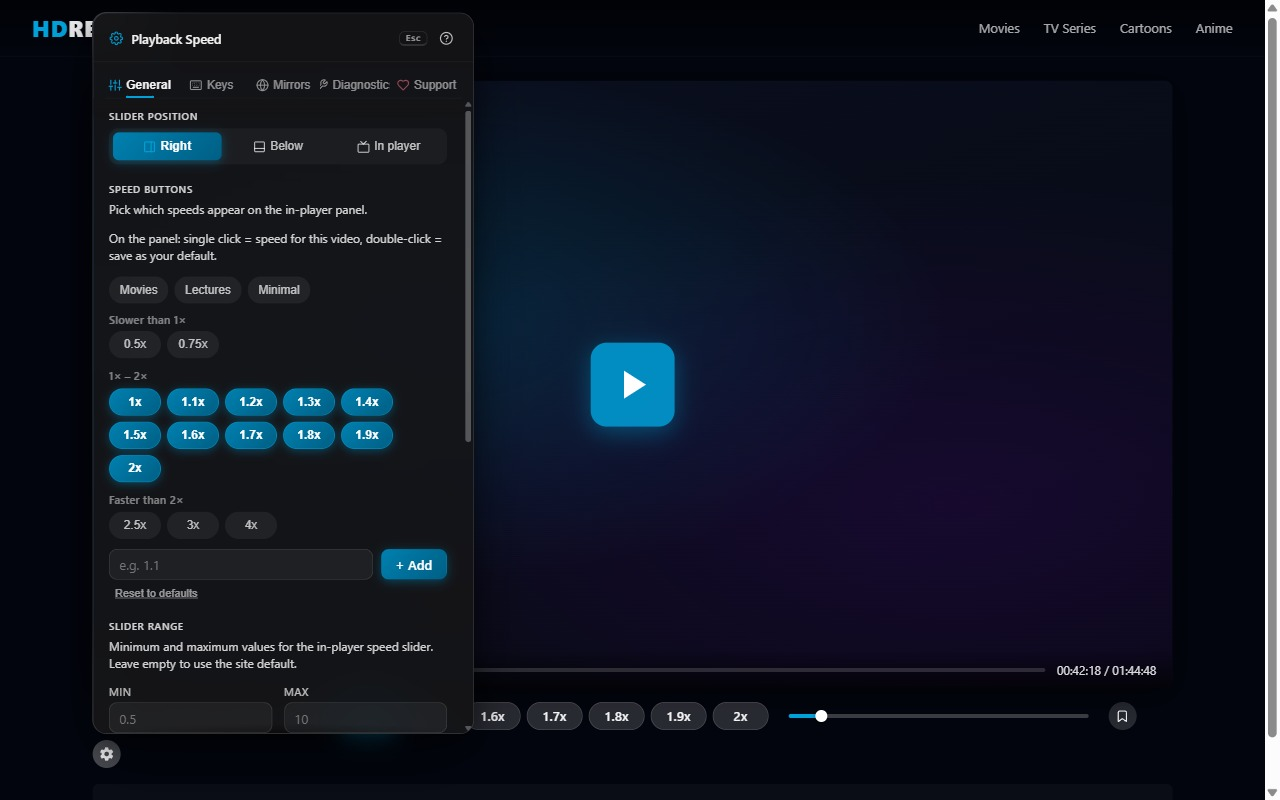
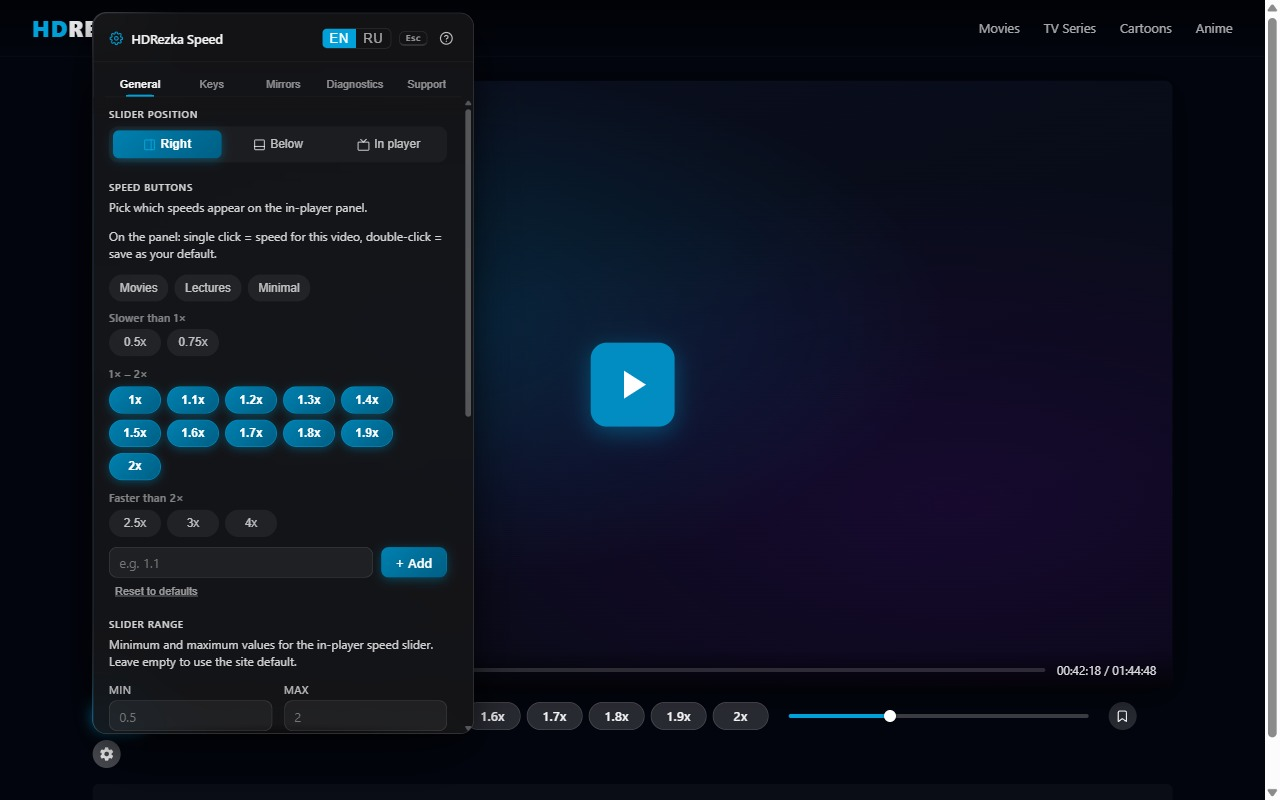
feat(onboarding): stop surprising the first-time user
The first film a new profile ever opened played at 1.4x — inherited from
the legacy userscript, never chosen. Speech gabbles, music is pitched up,
and nothing on screen says why; the obvious reading is "this extension
broke the player". A fresh profile now starts at normal speed and 1.4x is
one click away on the panel. Stored speeds are untouched, so nobody who
already picked a speed notices anything.

Nothing on the video page ever taught the two non-obvious things (click vs
double-click, and that the gear holds the hotkeys) — all of that lived on
the welcome tab, which many people close unread, after which only a hover
tooltip remained. The panel now says it once per profile, in a dismissible
chip built on the machinery the failure paths already use.

The welcome page's "Open HDRezka" button was a bare link to one mirror.
HDRezka mirrors get ISP-blocked routinely — that is why the reachability
machinery exists, and the popup has always used it — so the first click
after install was a dead end for exactly the people that machinery was
built for. It now asks the worker for a live mirror, with the plain link
as the fallback.

Also on that page: the button that starts the product was the last thing
on it, after a donation ask; the "pin the icon" tip — the one instruction
that decides whether settings can be found tomorrow — was the faintest
text on the page; the inert panel replica showed a pointer cursor next to
[…]

diff --git a/src/entrypoints/welcome/main.ts b/src/entrypoints/welcome/main.ts
@@ -19,7 +19,7 @@ import { storageKeysFor } from '../../config';
 import { detectBrowserLang } from '../../i18n/detect';
 import { type Lang, SUPPORTED_LANGS } from '../../i18n/dict';
 import { createTranslator } from '../../i18n/translator';
-import { builtinMatchPatterns } from '../../sites/mirror-hosts';
+import { BUILTIN_MIRROR_HOSTS, builtinMatchPatterns } from '../../sites/mirror-hosts';
 import { captureHotkey, formatHotkey } from '../../speed/hotkeys';
 import { createBrowserStorageAdapter } from '../../storage/adapter';
 import { defaultSettings, type Settings } from '../../storage/types';
@@ -103,6 +103,10 @@ async function renderWelcome(host: HTMLElement, langOverride?: Lang): Promise<vo
     renderLangSwitch(t, lang, onLangChange),
     renderHero(t),
     renderPermissionGate(t),
+    // The button that actually starts the product, right where the user is
+    // looking — the full row at the bottom stays, but reaching it meant
+    // scrolling past two teaching blocks, a hotkey editor and a donation ask.
+    renderCta(t),
     renderBlockA(t),
     renderHotkeys(t, liveSettings, applyPatch),
     renderBlockB(t),
@@ -346,12 +350,11 @@ function annotation(positionClass: string, text: string): HTMLElement {
     {
       class: `annotation ${positionClass}`,
       'data-ann-group': group,
-      // Make annotations focusable — keyboard/AT users tab through them
-      // and the focus handler in wireHoverGroups() lights up the matching
-      // UI part. role=button + aria-label tell SR users this thing has
-      // an effect when activated.
+      // Focusable so keyboard/AT users can tab through them — the focus
+      // handler in wireHoverGroups() lights up the matching UI part.
+      // Deliberately NOT role=button: nothing happens on Enter/Space, and
+      // announcing "button" promised an activation that does not exist.
       tabindex: 0,
-      role: 'button',
     },
     h('div', { class: 'ann-label' }, ...richText(text)),
   );
@@ -749,12 +752,14 @@ function renderTips(t: T): HTMLElement {
   const tipRow = (icon: SVGElement, text: string): HTMLElement =>
     h('div', { class: 'tip-row' }, icon, h('span', {}, ...richText(text)));
 
-  return h(
-    'div',
-    { class: 'tips-block' },
-    tipRow(reopenIcon, t('welcome.tips.reopen')),
-    tipRow(pinSvg, t('welcome.pin.tip')),
-  );
+  // Pinning gets its own callout rather than a dimmed 13px line among the
+  // other tips: it is the single action that decides whether the person can
+  // find the settings again tomorrow, and it used to carry the least visual
+  // weight on a page that gives a pulsing heart to the donation block.
+  const pinRow = tipRow(pinSvg, t('welcome.pin.tip'));
+  pinRow.classList.add('tip-row-callout');
+
+  return h('div', { class: 'tips-block' }, pinRow, tipRow(reopenIcon, t('welcome.tips.reopen')));
 }
 
 /* ─── Donate ───────────────────────────────────────────────────────── */
@@ -859,16 +864,36 @@ function renderPermissionGate(t: T): HTMLElement {
 }
 
 function renderCta(t: T): HTMLElement {
+  // Not a bare href to one mirror. HDRezka domains get ISP-blocked routinely —
+  // that is the whole reason the mirror machinery exists — so a hardcoded
+  // link made the FIRST click after install a dead end for exactly the people
+  // the machinery was built for. The worker already knows how to find a
+  // reachable mirror; the popup has always used it (mirrors:open-reachable).
+  // The href stays as the no-JS fallback and as something to middle-click.
   const hdrBtn = h(
     'a',
     {
       class: 'welcome-cta cta-hdr',
-      href: 'https://rezka.ag/',
+      href: `https://${BUILTIN_MIRROR_HOSTS[0]}/`,
       target: '_blank',
       rel: 'noopener noreferrer',
     },
     t('welcome.cta.hdrezka'),
   );
+  hdrBtn.addEventListener('click', (event) => {
+    event.preventDefault();
+    void browser.runtime
+      .sendMessage({ type: 'mirrors:open-reachable', candidates: [...BUILTIN_MIRROR_HOSTS] })
+      .then((res) => {
+        // Worker could not reach any mirror (all blocked, or it is asleep in a
+        // userscript-style build): fall back to the plain link rather than
+        // leaving the click doing nothing at all.
+        if (!(res as { ok?: boolean } | undefined)?.ok) window.open(hdrBtn.href, '_blank');
+      })
+      .catch(() => {
+        window.open(hdrBtn.href, '_blank');
+      });
+  });
 
   const closeBtn = h(
     'button',

diff --git a/src/index.ts b/src/index.ts
@@ -80,6 +80,7 @@ import {
   removeUserMirror,
   replaceUserMirrors,
 } from './storage/mirrors-store';
+import { markHintShown, wasHintShown } from './storage/onboarding-store';
 import { createSettingsStore } from './storage/settings-store';
 import { createSpeedStore } from './storage/speed-store';
 import { createPanel, createUiPort, injectStyles, insertPanel, installThemeWatcher } from './ui';
@@ -1020,6 +1021,41 @@ function awaitHDRezkaSignature(wxtCtx: ContentScriptContext, budgetMs = 2500): P
 }
 
 /**
+ * The one thing the panel says to a brand-new user, once per profile.
+ *
+ * Everything else is taught on the welcome page, in a tab that opens at
+ * install and is often closed unread — after which the panel explains itself
+ * only through a `title` attribute, i.e. only to someone already hovering a
+ * button with a mouse. This chip names the two non-obvious things (click vs
+ * double-click, and that the gear holds the hotkeys) in the place where they
+ * are actually used, then never appears again.
+ *
+ * Reuses the durable-chip machinery already built for the failure paths: it
+ * carries its own dismiss ✕ and does not auto-vanish, so it cannot be missed
+ * by someone who looked away, and cannot nag someone who dismissed it.
+ */
+function showFirstRunHint(ctx: AppContext): void {
+  const adapter = createBrowserStorageAdapter();
+  void wasHintShown(adapter).then((seen) => {
+    if (seen) return;
+    // Written BEFORE showing: a failed write must not turn into a hint on
+    // every page load for the rest of the profile's life.
+    void markHintShown(adapter).then(() => {
+      try {
+        showActionChip(ctx.i18n.t('onboarding.first_run'), {
+          kind: 'info',
+          icon: 'help-circle',
+          dismissLabel: ctx.i18n.t('chip.dismiss'),
+          playerContainer: ctx.discovery.resolve('playerContainer'),
+        });
+      } catch (e) {
+        ctx.logger.warn('first-run hint render failed', e);
+      }
+    });
+  });
+}
+
+/**
  * FEAT-018/20: a durable failure chip (warn ✕ + a "Reload" action) for the
  * two terminal give-up paths. Replaces the auto-dismissing 3s warn toast so
  * the message — and its recovery action — stays put until the user acts.
@@ -1065,6 +1101,7 @@ function scheduleInsertWithRetry(panelEl: HTMLElement, ctx: AppContext): void {
         installRemovalObserver(panelEl, ctx, scheduleInsertWithRetry);
         observerInstalled = true;
       }
+      showFirstRunHint(ctx);
       return;
     }
 

diff --git a/src/entrypoints/welcome/style.css b/src/entrypoints/welcome/style.css
@@ -605,16 +605,19 @@ html, body {
   border-radius: 8px;
 }
 
-/* `cursor: pointer` rather than `cursor: help` — `help` signals a tooltip
-   is available and there isn't one. Pointer correctly tells the user
-   "this changes something on the page when interacted with". */
+/* These are an inert REPLICA of the panel, not the panel. They highlight on
+   hover/focus and nothing else — no click handler exists anywhere in
+   renderRealPanel(). A pointer cursor next to an annotation that says
+   "Click — switch speed" invited the first "let me try it" of the whole
+   product and answered with silence, which reads as already broken. `help`
+   is the honest cursor: hovering explains, clicking does not act. */
 .real-pill[data-ann-group],
 .real-slider-wrap[data-ann-group],
 .real-gear[data-ann-group],
 .rs-header-help[data-ann-group],
 .rs-tabs[data-ann-group],
-.rs-preset-section[data-ann-group] { cursor: pointer; }
-.annotation { cursor: pointer; }
+.rs-preset-section[data-ann-group] { cursor: help; }
+.annotation { cursor: help; }
 
 /* ─── Block B: settings replica ───────────────────────────────────── */
 
@@ -968,6 +971,18 @@ html, body {
 .tip-row strong {
   color: var(--vs-fg);
   font-weight: 600;
+}
+
+/* Pin-the-toolbar-icon tip. Promoted out of the dimmed tip list: it is the
+   one instruction that decides whether the user can reach the settings again
+   at all, and it used to be the faintest text on the page. */
+.tip-row-callout {
+  font-size: 14px;
+  color: var(--vs-fg);
+  background: var(--vs-surface-2, rgb(0 0 0 / 4%));
+  border: 1px solid var(--vs-border);
+  border-radius: 12px;
+  padding: 12px 14px;
 }
 
 /* ─── Donate ──────────────────────────────────────────────────────── */

diff --git a/src/storage/onboarding-store.ts b/src/storage/onboarding-store.ts
@@ -1,0 +1,36 @@
+/**
+ * "Has this profile ever been shown the one-time hint?" — one flag, one place.
+ *
+ * All of the teaching lives on the welcome page, which opens once at install
+ * in a separate tab. A person who closes that tab never learns that click and
+ * double-click differ, or that the gear holds the hotkeys: on the panel itself
+ * the only explanation is a `title` attribute, i.e. hover-only and invisible
+ * on a first look. This flag lets the panel say it once, in the place where it
+ * matters, and never again.
+ *
+ * Deliberately NOT a settings key: it is not a preference, it must not appear
+ * in export/import, and it must not be reset by "restore defaults".
+ */
+
+import type { StorageAdapter } from './adapter';
+
+export const ONBOARDING_HINT_KEY = 'vs-onboarding-hint-seen';
+
+export async function wasHintShown(adapter: StorageAdapter): Promise<boolean> {
+  try {
+    return (await adapter.get<boolean | null>(ONBOARDING_HINT_KEY, null)) === true;
+  } catch {
+    // Storage unavailable → claim it was shown. Staying quiet is the safe
+    // failure: a hint repeated on every single page load is worse than a hint
+    // that never appears.
+    return true;
+  }
+}
+
+export async function markHintShown(adapter: StorageAdapter): Promise<void> {
+  try {
+    await adapter.set(ONBOARDING_HINT_KEY, true);
+  } catch {
+    /* best-effort — worst case the hint shows once more */
+  }
+}

diff --git a/src/i18n/dict.ts b/src/i18n/dict.ts
@@ -345,6 +345,13 @@ export const I18N_DICT = {
     'chip.reload': 'Reload',
     'chip.dismiss': 'Dismiss',
 
+    // onboarding.first_run — the one-time chip shown the first time the panel
+    // ever appears for this profile. Names only what is NOT self-evident:
+    // the click/double-click split and where the hotkeys live. Everything
+    // else the welcome page already covers.
+    'onboarding.first_run':
+      'Click a button — speed for this video. Double-click — save it as your default. The ⚙ button holds hotkeys and settings.',
+
     // toast.storage_write_failed -- a coalesced storage write rejected
     // (quota / invalidated context). Shown once per page so the user
     // knows the saved speed/settings may not have persisted.
@@ -767,6 +774,10 @@ export const I18N_DICT = {
     'resume.chip': 'Продолжить с {time}',
     'chip.reload': 'Обновить',
     'chip.dismiss': 'Закрыть',
+
+    // onboarding.first_run
+    'onboarding.first_run':
+      'Клик по кнопке — скорость для этого видео. Двойной клик — сохранить её по умолчанию. В ⚙ живут горячие клавиши и настройки.',
 
     // toast.storage_write_failed
     'toast.storage_write_failed':

diff --git a/tests/unit/first-run-defaults.spec.ts b/tests/unit/first-run-defaults.spec.ts
@@ -1,0 +1,28 @@
+/**
+ * What a brand-new profile gets. Nothing pinned these before, and the value
+ * that decides how the very first film plays sat unguarded: it was 1.4, so a
+ * newcomer's first video started 40% faster with nothing on screen saying why
+ * — indistinguishable from "the extension broke the player".
+ */
+
+import { describe, expect, it } from 'vitest';
+import { defaultPresetsFor, speedBoundsFor } from '../../src/config';
+
+describe('a fresh profile plays at normal speed', () => {
+  it('starts at 1.0 on hdrezka', () => {
+    expect(speedBoundsFor('hdrezka').defaultSpeed).toBe(1);
+  });
+
+  it('keeps the faster speeds one click away as presets', () => {
+    // The point of the default change is "do not surprise", not "hide the
+    // feature": the speed that used to be forced on first run must still be
+    // sitting on the panel.
+    expect(defaultPresetsFor('hdrezka')).toContain(1.4);
+  });
+
+  it('never defaults outside its own bounds', () => {
+    const b = speedBoundsFor('hdrezka');
+    expect(b.defaultSpeed).toBeGreaterThanOrEqual(b.min);
+    expect(b.defaultSpeed).toBeLessThanOrEqual(b.max);
+  });
+});

diff --git a/src/entrypoints/background.ts b/src/entrypoints/background.ts
@@ -1058,6 +1058,19 @@ export default defineBackground(() => {
       const url = browser.runtime.getURL('/welcome.html');
       void browser.tabs.create({ url });
     }
+    // An UPDATE can leave the extension without access to the sites it works
+    // on — Firefox does not grant host permissions an add-on gains in an
+    // update (Mozilla bug 1893232), so a release that adds a mirror is
+    // silently dead on it. The page that explains the fix used to open only
+    // at install, i.e. never for the people this exact case hits. Opened here
+    // ONLY when access is genuinely missing: a tab on every update would be
+    // spam, and this check costs one permissions.contains call.
+    if (reason === 'update') {
+      void refreshPermissionBadge().then((held) => {
+        if (held) return;
+        void browser.tabs.create({ url: browser.runtime.getURL('/welcome.html') });
+      });
+    }
     // Chrome clears dynamic content scripts on every extension update —
     // re-register from storage without waiting for user action.
     scheduleReconcile(`installed:${reason}`);

diff --git a/src/config.ts b/src/config.ts
@@ -30,7 +30,13 @@ export interface SpeedBounds {
 }
 
 const SPEED_BOUNDS: Record<Site, SpeedBounds> = {
-  hdrezka: { min: 0.5, max: 10.0, defaultSpeed: 1.4 },
+  // defaultSpeed is what a profile with NOTHING stored plays at — i.e. the
+  // very first film a new user opens. It used to be 1.4 (inherited from the
+  // legacy userscript), so the film started 40% faster with no explanation
+  // anywhere on screen; the likeliest reading of that is "the extension broke
+  // the player". 1.4 is still one click away as a preset button.
+  // Existing users are unaffected: their speed is read from storage.
+  hdrezka: { min: 0.5, max: 10.0, defaultSpeed: 1.0 },
 };
 
 export function speedBoundsFor(site: Site): SpeedBounds {

diff --git a/README.md b/README.md
@@ -30,7 +30,7 @@ Bilingual interface (English / Russian). No ads, no telemetry.
 - Click = temporary speed for this video. Double-click = save as default.
 - Configurable hotkeys (default `Alt+.` +0.1 / `Alt+,` −0.1, `Alt+0`
   resets to 1x). Supports multiple combos per action (keyboard + remote).
-- In-player gear menu: General / Shortcuts / Mirrors / Diagnostics tabs.
+- In-player gear menu: General / Keys / Mirrors / Diagnostics / Support tabs.
 - Toolbar popup mirrors the in-player menu.
 - Auto-follows HDRezka's light / dark theme toggle.
 - Supports all known mirrors out of the box: `hdrezka.ag`, `rezka.ag`,
